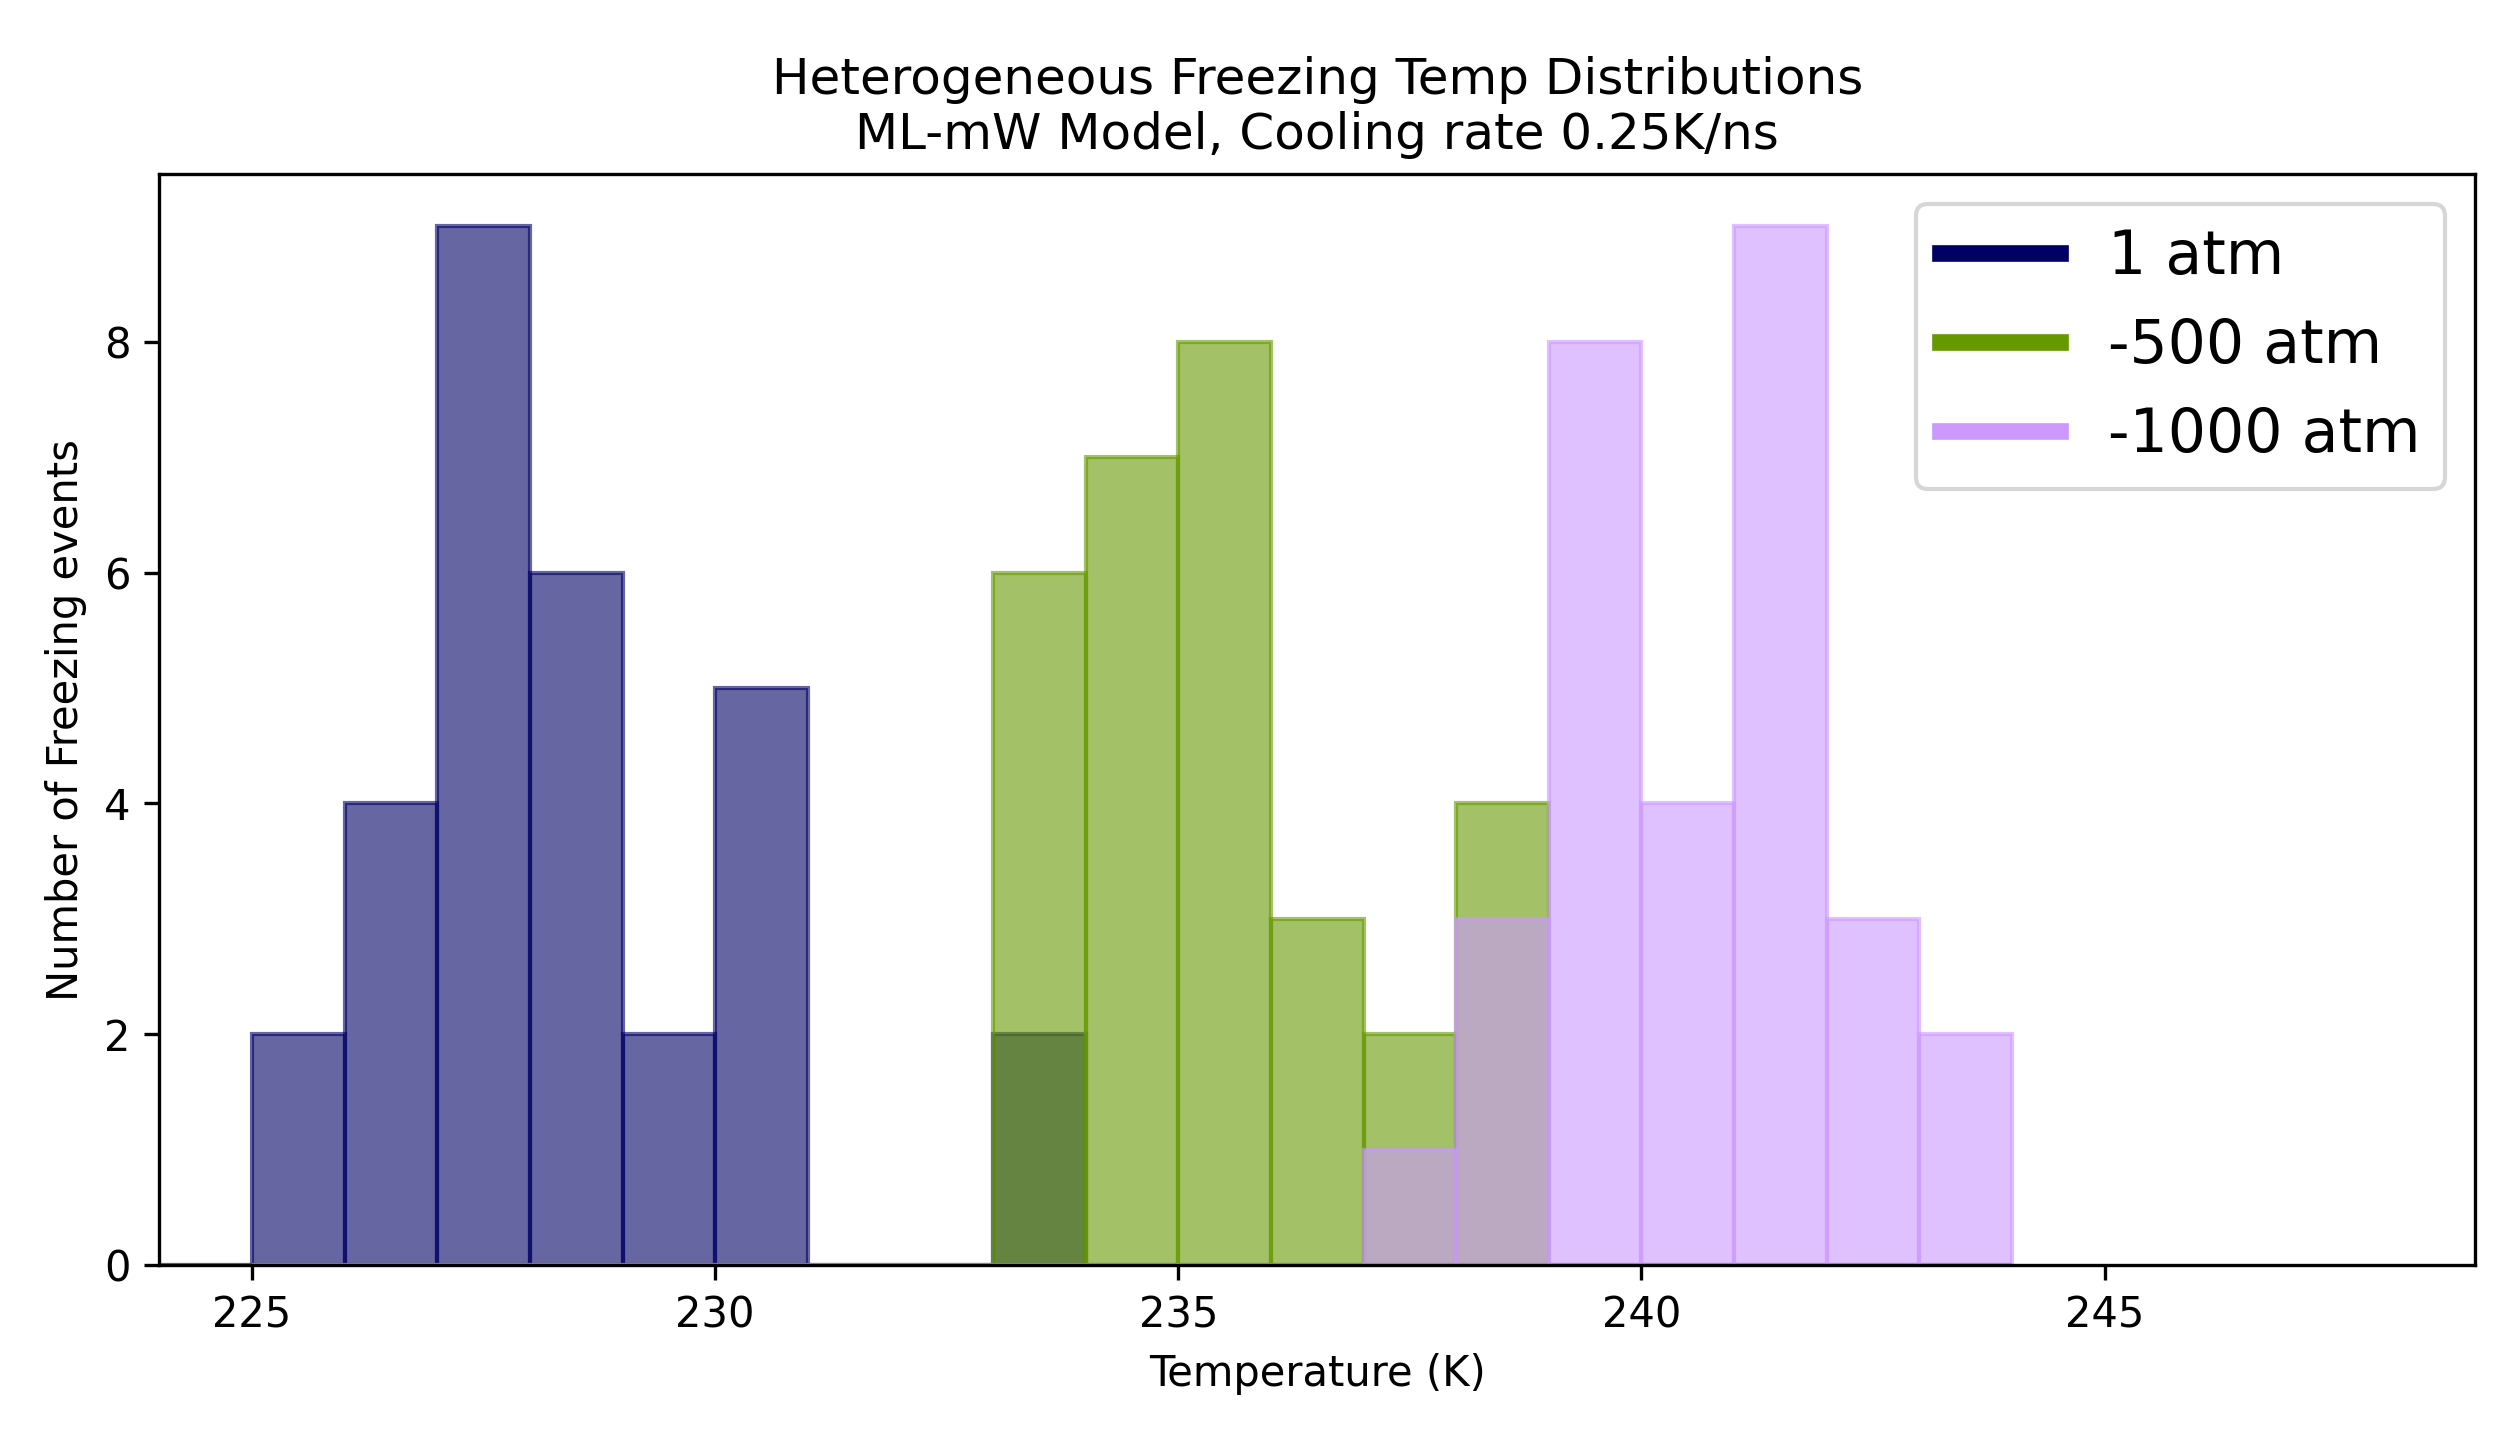
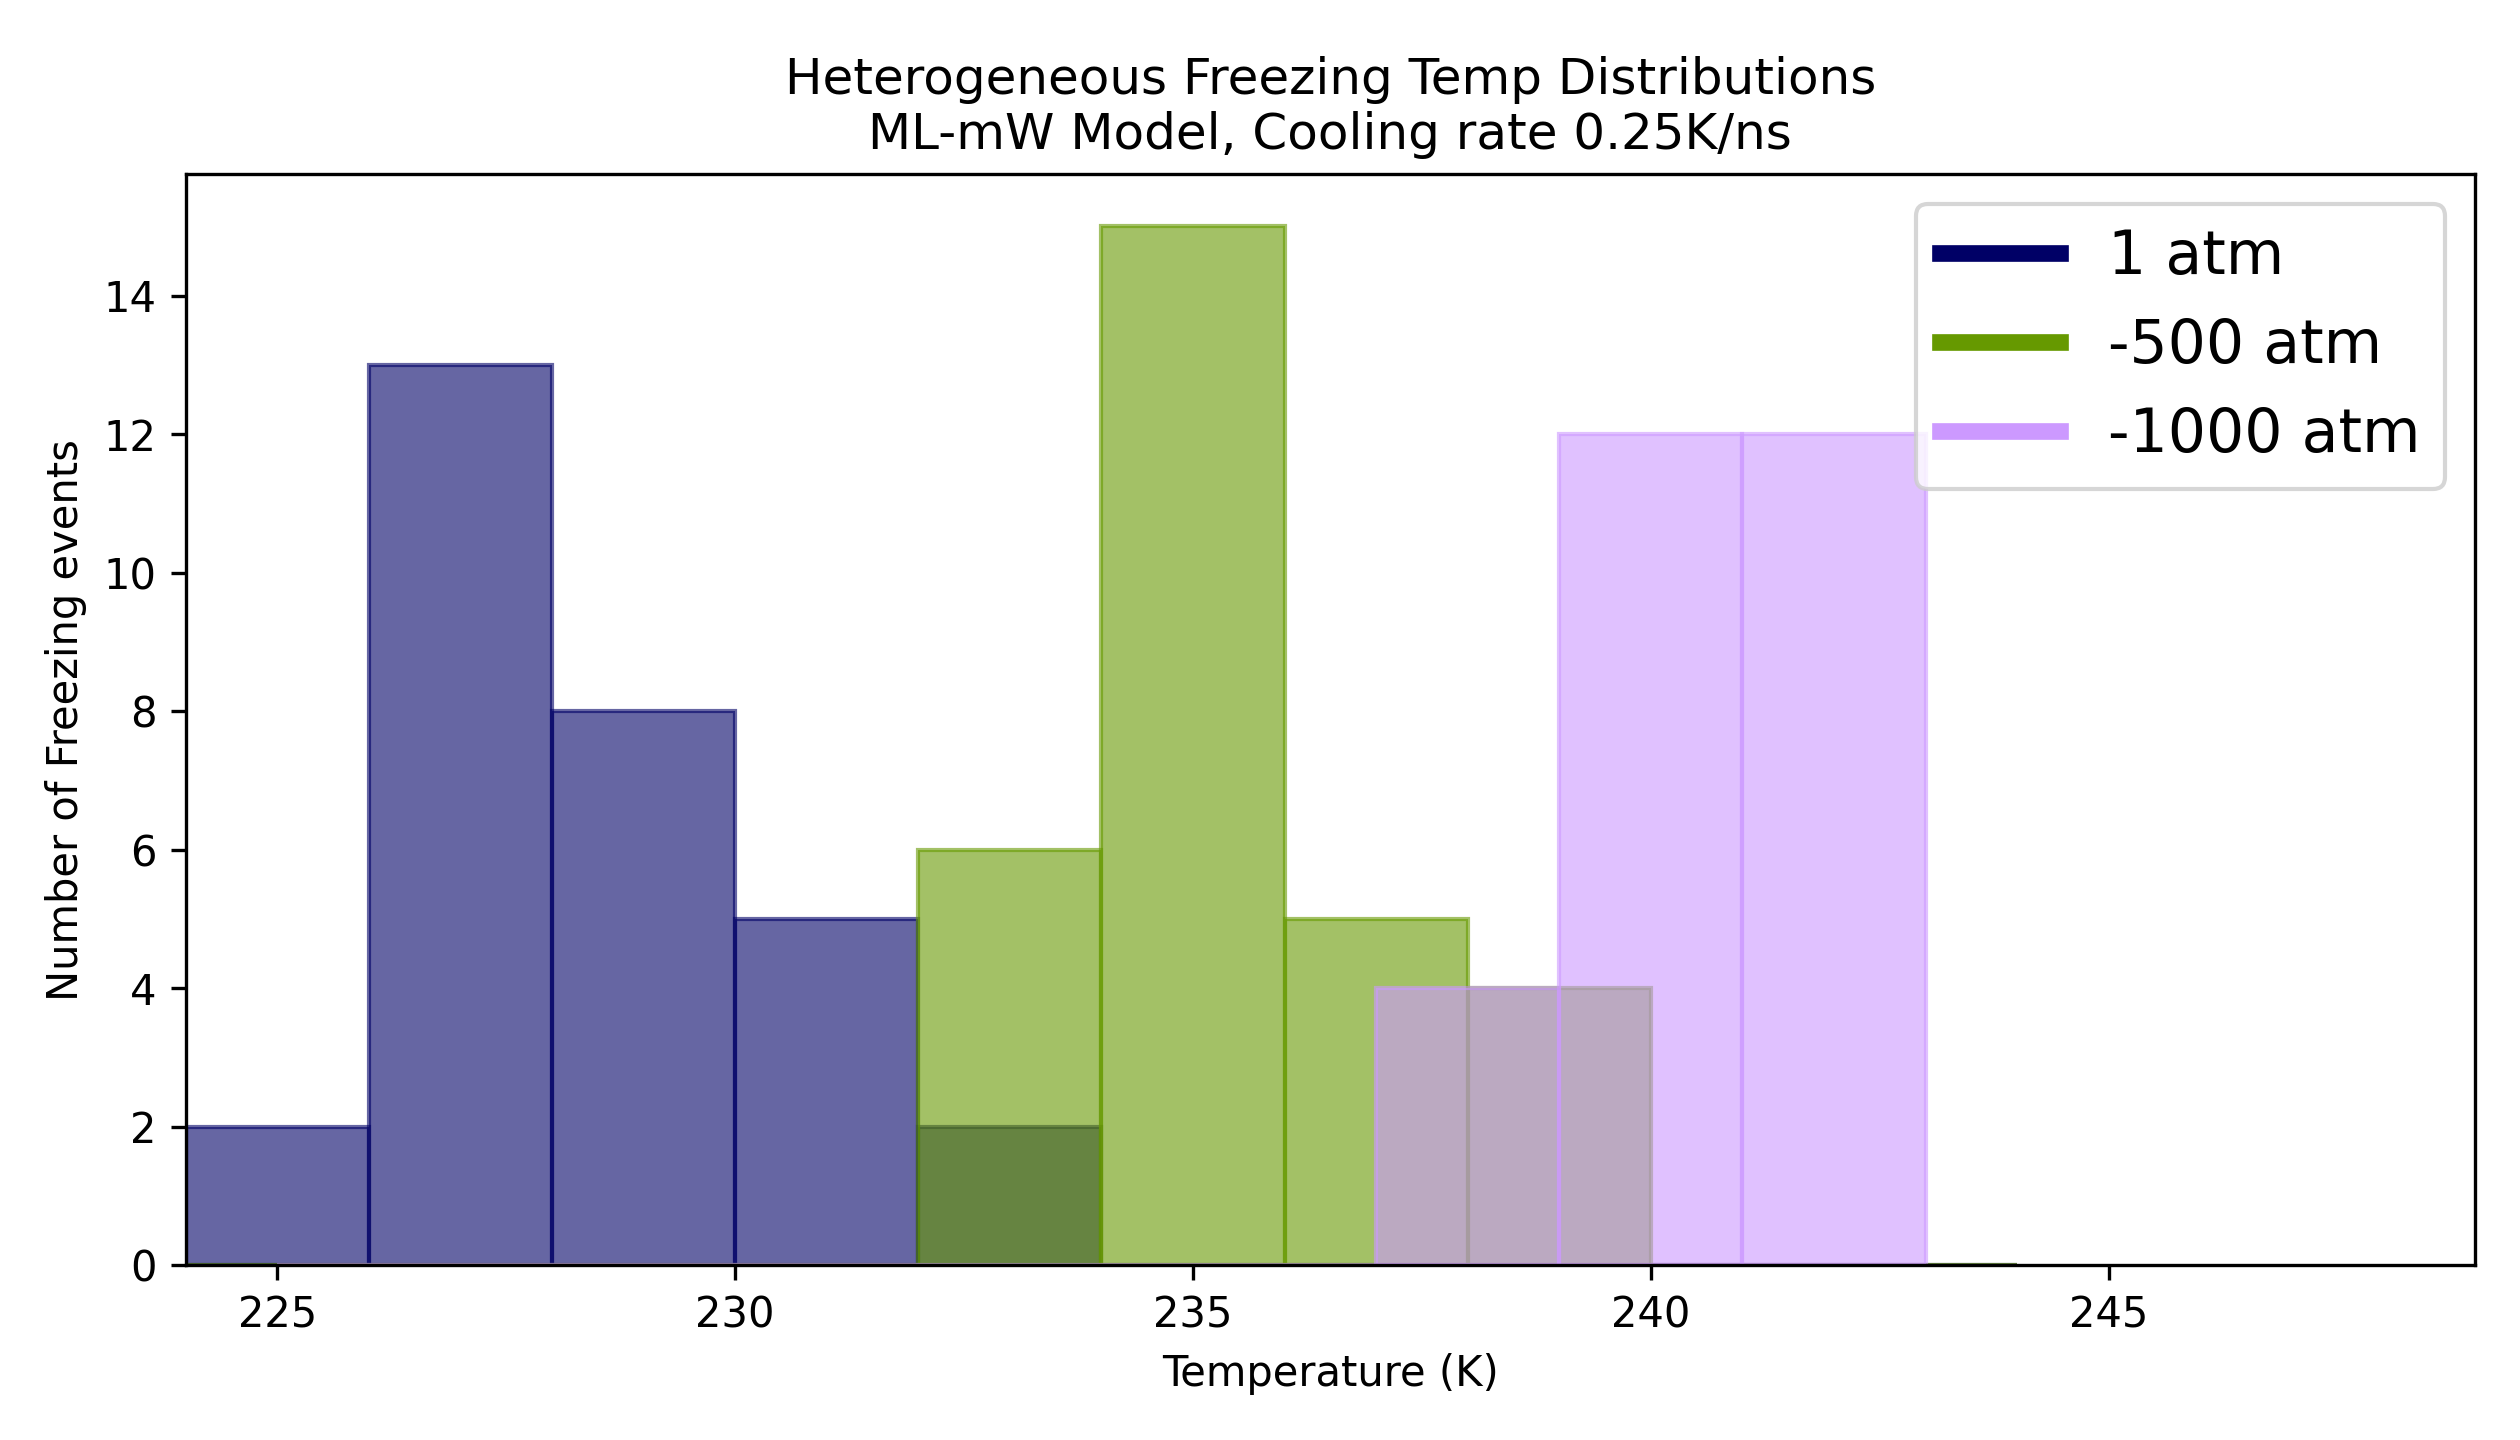
upddate

diff --git a/MLmW/Final_Results/fit_plot_presentaion.py b/MLmW/Final_Results/fit_plot_presentaion.py
@@ -20,7 +20,7 @@ limits_1 = [245, 220]
 limits_500 = [245, 220]
 limits_1000 = [245, 225]
 
-bin_width = 1 # width of temperature bins
+bin_width = 2 # width of temperature bins
 
 # create file for freezing temperatures in analysis folder
 # data: RUN TEMP
